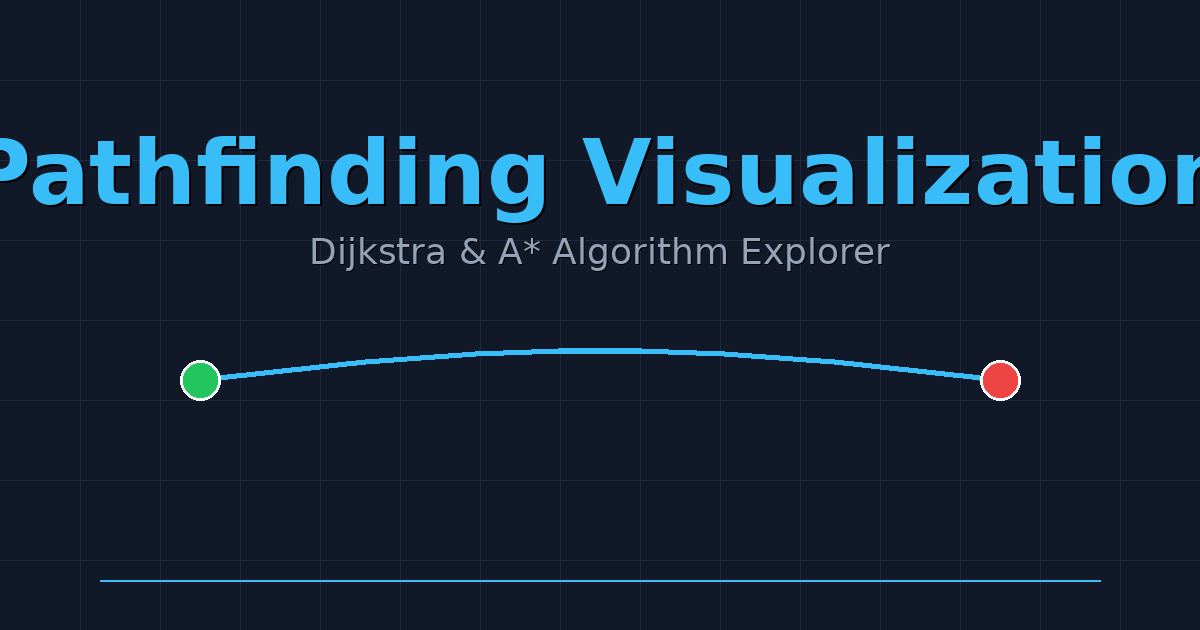
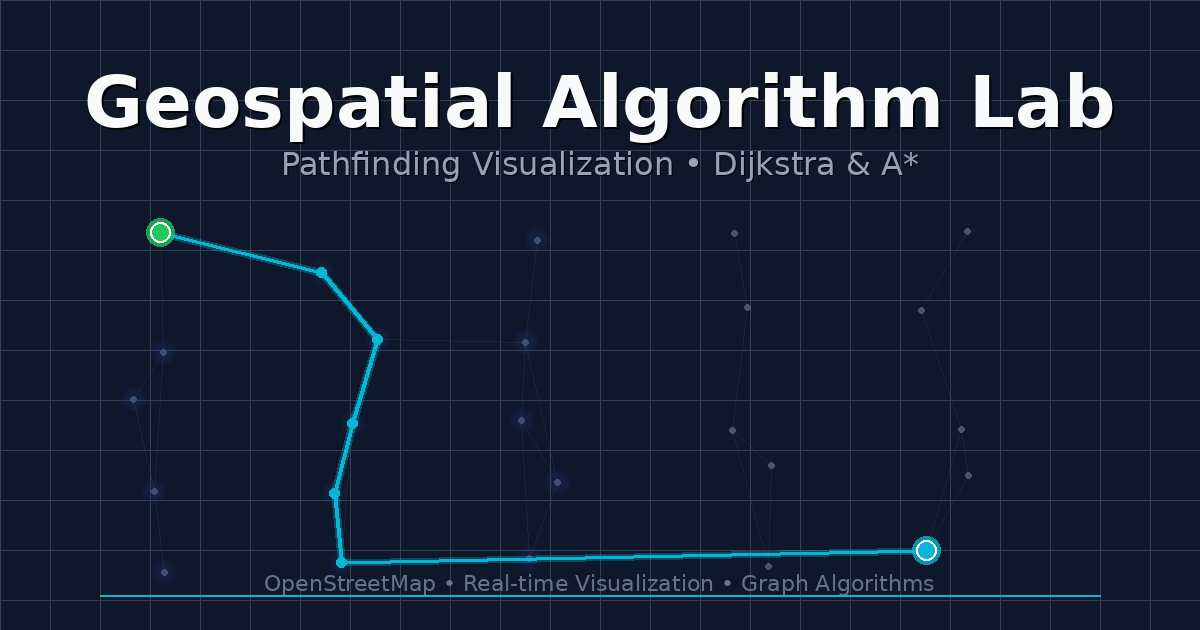
Redesign OG image with modern Geospatial Algorithm Lab branding

diff --git a/app/layout.tsx b/app/layout.tsx
@@ -9,9 +9,9 @@ const _geist = Geist({ subsets: ["latin"] })
 const _geistMono = Geist_Mono({ subsets: ["latin"] })
 
 export const metadata: Metadata = {
-  title: "Pathfinding Visualization Algorithm",
-  description: "Explore Dijkstra and A* algorithms in real-time on interactive maps powered by OpenStreetMap",
-  keywords: ["pathfinding", "algorithm visualization", "Dijkstra", "A*", "graph algorithms", "OpenStreetMap", "interactive learning"],
+  title: "Geospatial Algorithm Lab | Pathfinding Visualization",
+  description: "Interactive geospatial pathfinding visualization tool. Explore Dijkstra and A* algorithms on real-world road networks with OpenStreetMap data.",
+  keywords: ["geospatial algorithms", "pathfinding", "Dijkstra", "A*", "graph algorithms", "OpenStreetMap", "algorithm visualization", "road networks", "developer tools"],
   authors: [{ name: "Mathis Zerbib" }],
   creator: "Mathis Zerbib",
   publisher: "Mathis Zerbib",
@@ -40,15 +40,15 @@ export const metadata: Metadata = {
     type: "website",
     locale: "en_US",
     url: "https://pathfinding-visualization-algorithm.vercel.app",
-    siteName: "Pathfinding Visualization",
-    title: "Pathfinding Visualization | Dijkstra & A* Algorithms on Real Maps",
-    description: "Explore and visualize Dijkstra and A* pathfinding algorithms in real-time on interactive maps. Educational tool built with OpenStreetMap and Next.js.",
+    siteName: "Geospatial Algorithm Lab",
+    title: "Geospatial Algorithm Lab | Real-time Pathfinding Visualization",
+    description: "Interactive tool for visualizing pathfinding algorithms (Dijkstra & A*) on real-world geographic road networks. Educational resource for developers and students exploring graph algorithms with OpenStreetMap data.",
     images: [
       {
         url: "/og-image.png",
         width: 1200,
         height: 630,
-        alt: "Pathfinding Visualization - Interactive Dijkstra and A* algorithms demonstration on real map data",
+        alt: "Geospatial Algorithm Lab - Network graph showing optimal pathfinding route with Dijkstra and A* algorithms on geographic road data",
         type: "image/png",
       },
     ],
@@ -57,12 +57,12 @@ export const metadata: Metadata = {
     card: "summary_large_image",
     site: "@MathisZerbib",
     creator: "@MathisZerbib",
-    title: "Pathfinding Visualization | Dijkstra & A* Algorithms",
-    description: "Explore and visualize Dijkstra and A* pathfinding algorithms in real-time on interactive maps. Educational tool built with OpenStreetMap and Next.js.",
+    title: "Geospatial Algorithm Lab | Pathfinding Visualization",
+    description: "Interactive tool for visualizing pathfinding algorithms (Dijkstra & A*) on real-world geographic road networks. Educational resource for developers and students exploring graph algorithms.",
     images: [
       {
         url: "/og-image.png",
-        alt: "Pathfinding Visualization - Interactive Dijkstra and A* algorithms demonstration on real map data",
+        alt: "Geospatial Algorithm Lab - Network graph showing optimal pathfinding route with Dijkstra and A* algorithms on geographic road data",
       },
     ],
   },
